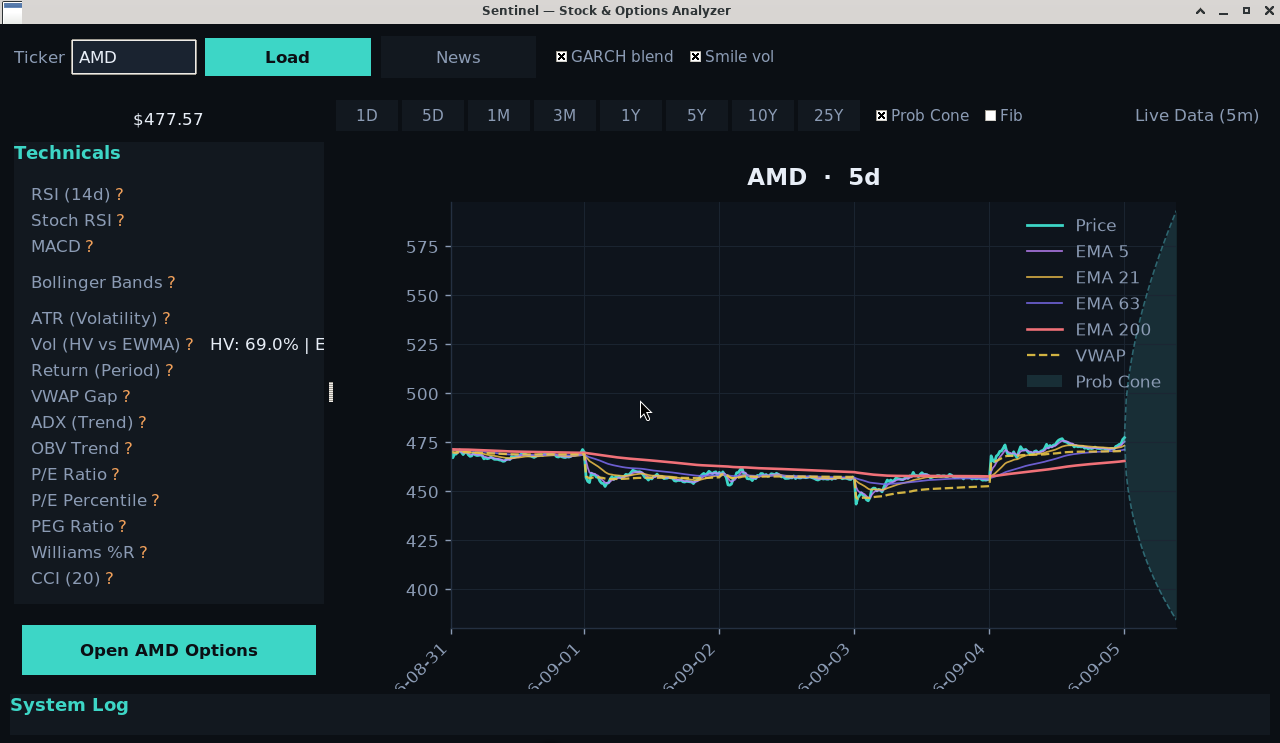
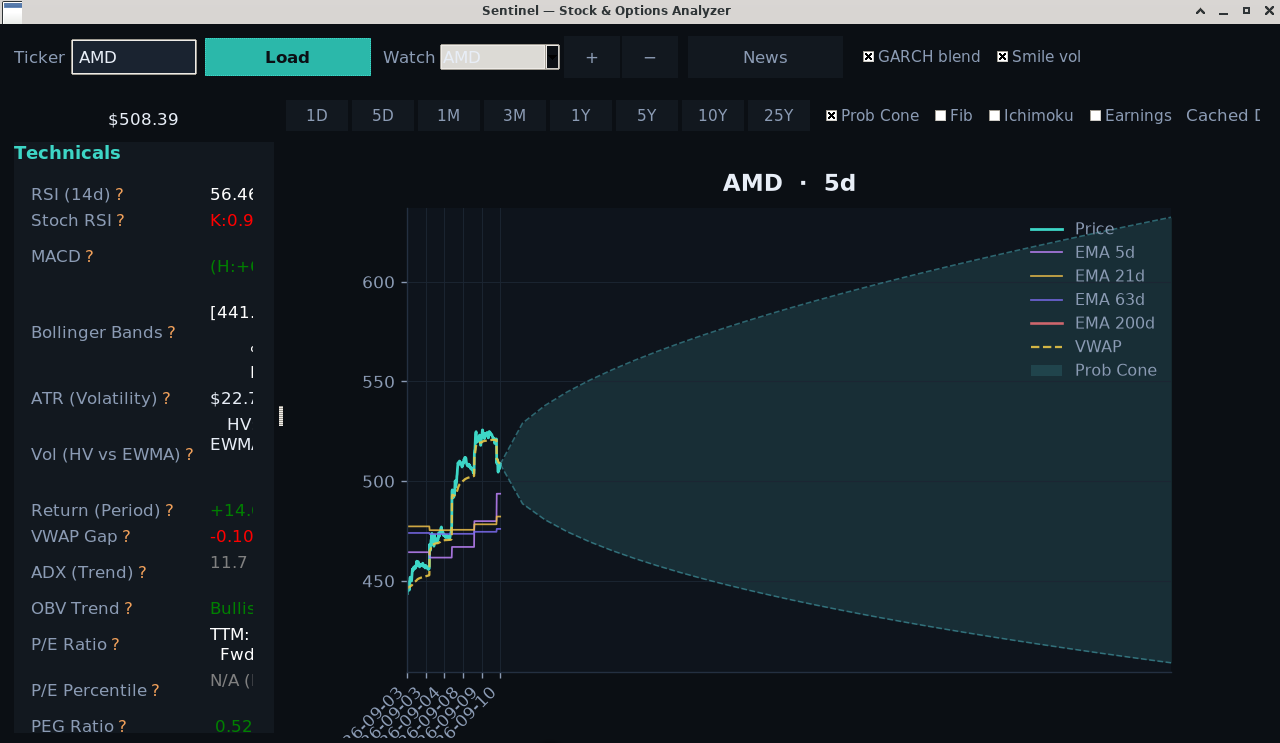
docs: refresh screenshots and add AMD relationship graph shot

diff --git a/README.md b/README.md
@@ -85,6 +85,8 @@ python3 sentinel.py graph export NVDA --depth 1 --dim 3d --html nvda_cluster_3d.
 
 ![Options Explorer — tradeable-edge scan](Screenshots/options-explorer.png)
 
+![Stock Relationship Graph — AMD cluster](Screenshots/graph-amd-cluster.png)
+
 
 ## 🚀 Key Features
 ### 5. Watchlist, Ichimoku, Earnings & Fib
